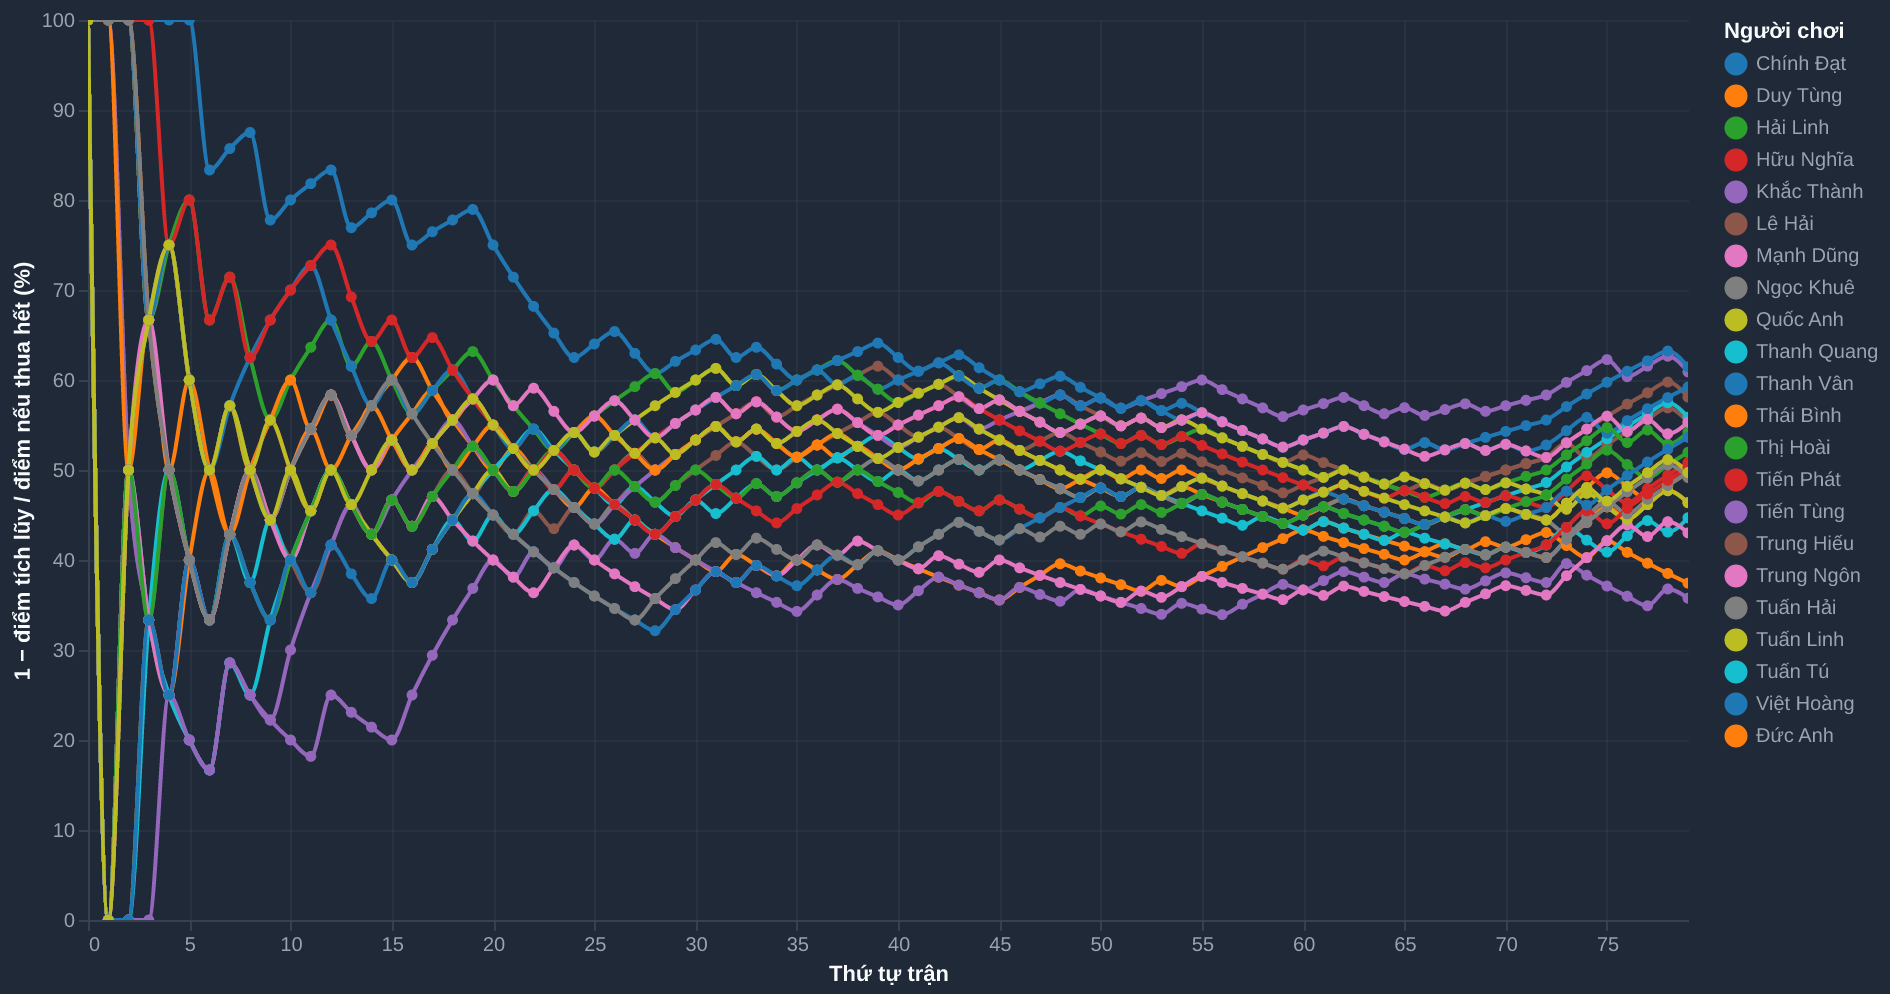
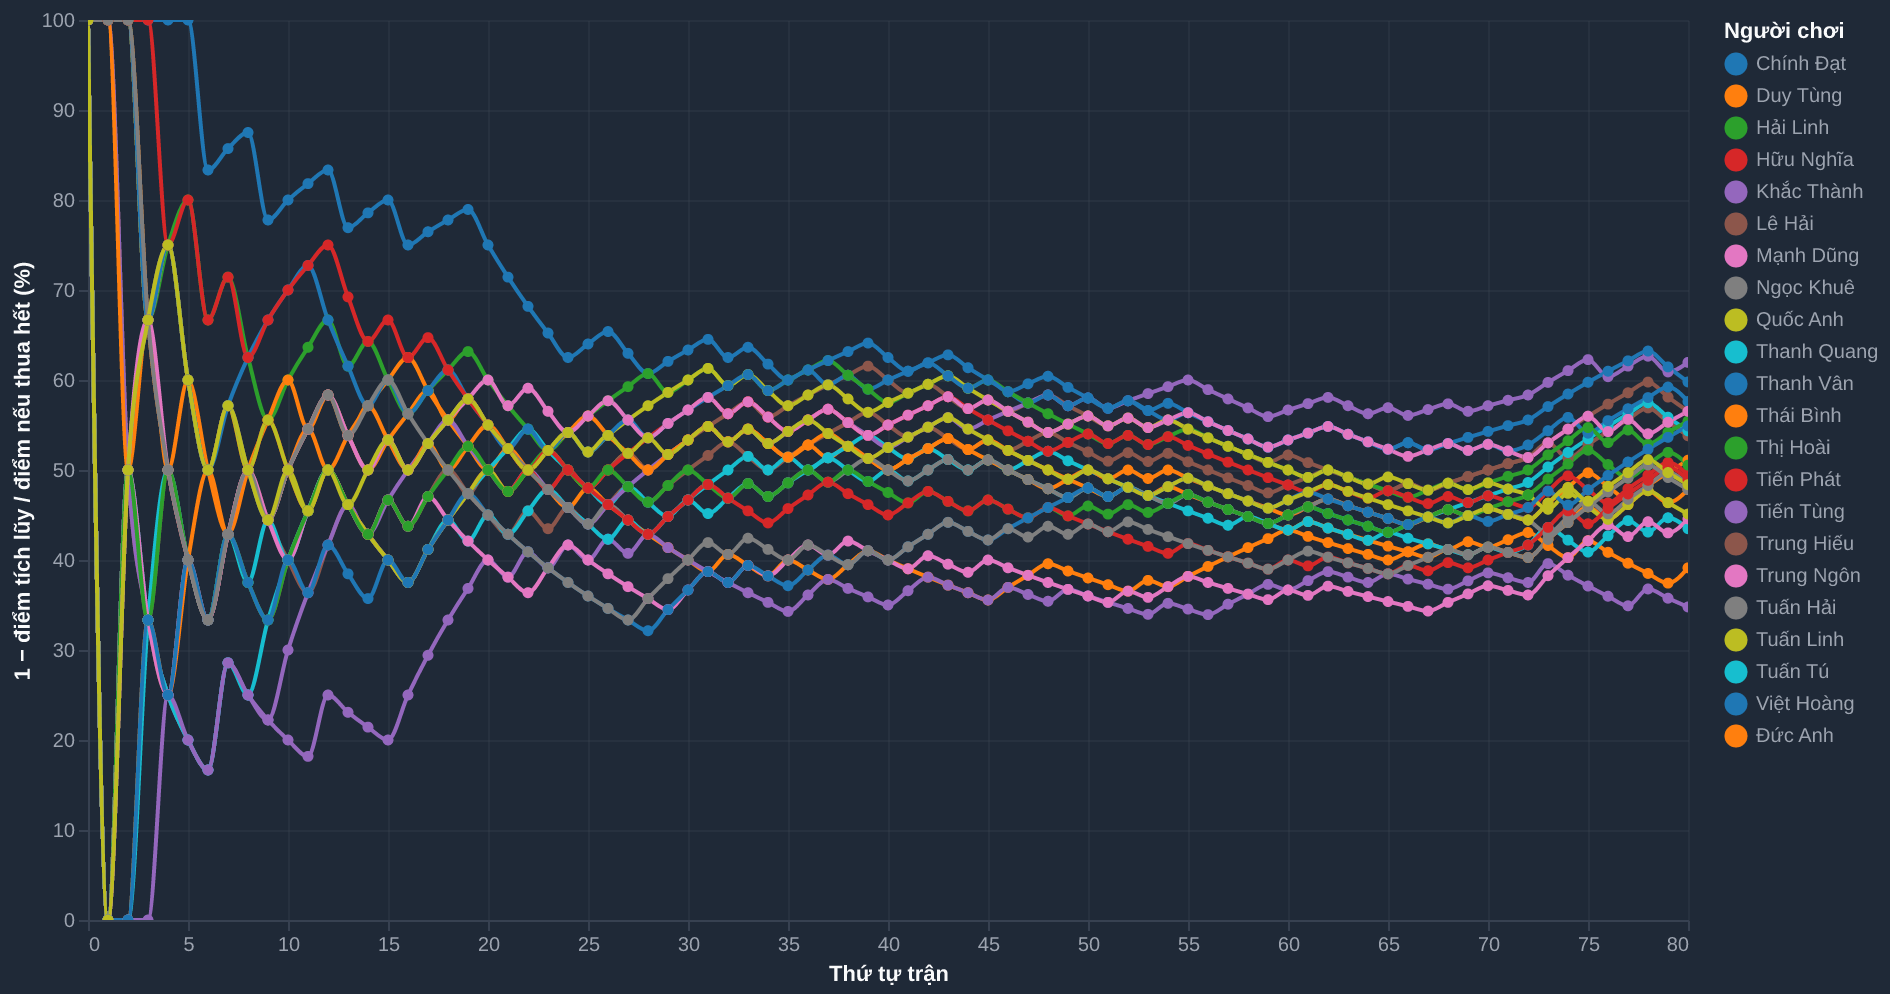
update data

diff --git a/index.html b/index.html
@@ -61,28 +61,28 @@
                 </tr>
               </thead>
               <tbody>
-              <tr><td class="streak-player" data-val="Tuấn Tú">Tuấn Tú</td><td class="streak-center" data-val="0"><span class="streak-dim">0</span></td><td class="streak-center streak-num" data-val="13">13</td><td class="streak-center" data-val="1"><span class="streak-badge streak-loss">1</span></td><td class="streak-center streak-num" data-val="6">6</td></tr>
-              <tr><td class="streak-player" data-val="Trung Hiếu">Trung Hiếu</td><td class="streak-center" data-val="0"><span class="streak-dim">0</span></td><td class="streak-center streak-num" data-val="11">11</td><td class="streak-center" data-val="1"><span class="streak-badge streak-loss">1</span></td><td class="streak-center streak-num" data-val="5">5</td></tr>
-              <tr><td class="streak-player" data-val="Việt Hoàng">Việt Hoàng</td><td class="streak-center" data-val="0"><span class="streak-dim">0</span></td><td class="streak-center streak-num" data-val="11">11</td><td class="streak-center" data-val="1"><span class="streak-badge streak-loss">1</span></td><td class="streak-center streak-num" data-val="5">5</td></tr>
-              <tr><td class="streak-player" data-val="Ngọc Khuê">Ngọc Khuê</td><td class="streak-center" data-val="0"><span class="streak-dim">0</span></td><td class="streak-center streak-num" data-val="6">6</td><td class="streak-center" data-val="1"><span class="streak-badge streak-loss">1</span></td><td class="streak-center streak-num" data-val="12">12</td></tr>
-              <tr><td class="streak-player" data-val="Tiến Phát">Tiến Phát</td><td class="streak-center" data-val="3"><span class="streak-badge streak-win">3</span></td><td class="streak-center streak-num" data-val="6">6</td><td class="streak-center" data-val="0"><span class="streak-dim">0</span></td><td class="streak-center streak-num" data-val="7">7</td></tr>
-              <tr><td class="streak-player" data-val="Tuấn Linh">Tuấn Linh</td><td class="streak-center" data-val="0"><span class="streak-dim">0</span></td><td class="streak-center streak-num" data-val="6">6</td><td class="streak-center" data-val="1"><span class="streak-badge streak-loss">1</span></td><td class="streak-center streak-num" data-val="7">7</td></tr>
-              <tr><td class="streak-player" data-val="Thái Bình">Thái Bình</td><td class="streak-center" data-val="0"><span class="streak-dim">0</span></td><td class="streak-center streak-num" data-val="6">6</td><td class="streak-center" data-val="4"><span class="streak-badge streak-loss">4</span></td><td class="streak-center streak-num" data-val="6">6</td></tr>
-              <tr><td class="streak-player" data-val="Thị Hoài">Thị Hoài</td><td class="streak-center" data-val="1"><span class="streak-badge streak-win">1</span></td><td class="streak-center streak-num" data-val="6">6</td><td class="streak-center" data-val="0"><span class="streak-dim">0</span></td><td class="streak-center streak-num" data-val="6">6</td></tr>
-              <tr><td class="streak-player" data-val="Lê Hải">Lê Hải</td><td class="streak-center" data-val="0"><span class="streak-dim">0</span></td><td class="streak-center streak-num" data-val="6">6</td><td class="streak-center" data-val="1"><span class="streak-badge streak-loss">1</span></td><td class="streak-center streak-num" data-val="5">5</td></tr>
-              <tr><td class="streak-player" data-val="Khắc Thành">Khắc Thành</td><td class="streak-center" data-val="0"><span class="streak-dim">0</span></td><td class="streak-center streak-num" data-val="6">6</td><td class="streak-center" data-val="1"><span class="streak-badge streak-loss">1</span></td><td class="streak-center streak-num" data-val="4">4</td></tr>
-              <tr><td class="streak-player" data-val="Hải Linh">Hải Linh</td><td class="streak-center" data-val="2"><span class="streak-badge streak-win">2</span></td><td class="streak-center streak-num" data-val="6">6</td><td class="streak-center" data-val="0"><span class="streak-dim">0</span></td><td class="streak-center streak-num" data-val="4">4</td></tr>
-              <tr><td class="streak-player" data-val="Chính Đạt">Chính Đạt</td><td class="streak-center" data-val="5"><span class="streak-badge streak-win">5</span></td><td class="streak-center streak-num" data-val="5">5</td><td class="streak-center" data-val="0"><span class="streak-dim">0</span></td><td class="streak-center streak-num" data-val="9">9</td></tr>
-              <tr><td class="streak-player" data-val="Tiến Tùng">Tiến Tùng</td><td class="streak-center" data-val="0"><span class="streak-dim">0</span></td><td class="streak-center streak-num" data-val="5">5</td><td class="streak-center" data-val="1"><span class="streak-badge streak-loss">1</span></td><td class="streak-center streak-num" data-val="7">7</td></tr>
-              <tr><td class="streak-player" data-val="Hữu Nghĩa">Hữu Nghĩa</td><td class="streak-center" data-val="4"><span class="streak-badge streak-win">4</span></td><td class="streak-center streak-num" data-val="5">5</td><td class="streak-center" data-val="0"><span class="streak-dim">0</span></td><td class="streak-center streak-num" data-val="6">6</td></tr>
-              <tr><td class="streak-player" data-val="Thanh Quang">Thanh Quang</td><td class="streak-center" data-val="1"><span class="streak-badge streak-win">1</span></td><td class="streak-center streak-num" data-val="5">5</td><td class="streak-center" data-val="0"><span class="streak-dim">0</span></td><td class="streak-center streak-num" data-val="5">5</td></tr>
-              <tr><td class="streak-player" data-val="Thanh Vân">Thanh Vân</td><td class="streak-center" data-val="4"><span class="streak-badge streak-win">4</span></td><td class="streak-center streak-num" data-val="5">5</td><td class="streak-center" data-val="0"><span class="streak-dim">0</span></td><td class="streak-center streak-num" data-val="5">5</td></tr>
-              <tr><td class="streak-player" data-val="Trung Ngôn">Trung Ngôn</td><td class="streak-center" data-val="0"><span class="streak-dim">0</span></td><td class="streak-center streak-num" data-val="4">4</td><td class="streak-center" data-val="1"><span class="streak-badge streak-loss">1</span></td><td class="streak-center streak-num" data-val="6">6</td></tr>
-              <tr><td class="streak-player" data-val="Quốc Anh">Quốc Anh</td><td class="streak-center" data-val="0"><span class="streak-dim">0</span></td><td class="streak-center streak-num" data-val="4">4</td><td class="streak-center" data-val="1"><span class="streak-badge streak-loss">1</span></td><td class="streak-center streak-num" data-val="6">6</td></tr>
-              <tr><td class="streak-player" data-val="Mạnh Dũng">Mạnh Dũng</td><td class="streak-center" data-val="1"><span class="streak-badge streak-win">1</span></td><td class="streak-center streak-num" data-val="4">4</td><td class="streak-center" data-val="0"><span class="streak-dim">0</span></td><td class="streak-center streak-num" data-val="4">4</td></tr>
-              <tr><td class="streak-player" data-val="Duy Tùng">Duy Tùng</td><td class="streak-center" data-val="0"><span class="streak-dim">0</span></td><td class="streak-center streak-num" data-val="3">3</td><td class="streak-center" data-val="1"><span class="streak-badge streak-loss">1</span></td><td class="streak-center streak-num" data-val="6">6</td></tr>
-              <tr><td class="streak-player" data-val="Đức Anh">Đức Anh</td><td class="streak-center" data-val="2"><span class="streak-badge streak-win">2</span></td><td class="streak-center streak-num" data-val="3">3</td><td class="streak-center" data-val="0"><span class="streak-dim">0</span></td><td class="streak-center streak-num" data-val="6">6</td></tr>
-              <tr><td class="streak-player" data-val="Tuấn Hải">Tuấn Hải</td><td class="streak-center" data-val="3"><span class="streak-badge streak-win">3</span></td><td class="streak-center streak-num" data-val="3">3</td><td class="streak-center" data-val="0"><span class="streak-dim">0</span></td><td class="streak-center streak-num" data-val="6">6</td></tr>
+              <tr><td class="streak-player" data-val="Tuấn Tú">Tuấn Tú</td><td class="streak-center" data-val="0"><span class="streak-dim">0</span></td><td class="streak-center streak-num" data-val="13">13</td><td class="streak-center" data-val="2"><span class="streak-badge streak-loss">2</span></td><td class="streak-center streak-num" data-val="6">6</td></tr>
+              <tr><td class="streak-player" data-val="Trung Hiếu">Trung Hiếu</td><td class="streak-center" data-val="0"><span class="streak-dim">0</span></td><td class="streak-center streak-num" data-val="11">11</td><td class="streak-center" data-val="2"><span class="streak-badge streak-loss">2</span></td><td class="streak-center streak-num" data-val="5">5</td></tr>
+              <tr><td class="streak-player" data-val="Việt Hoàng">Việt Hoàng</td><td class="streak-center" data-val="0"><span class="streak-dim">0</span></td><td class="streak-center streak-num" data-val="11">11</td><td class="streak-center" data-val="2"><span class="streak-badge streak-loss">2</span></td><td class="streak-center streak-num" data-val="5">5</td></tr>
+              <tr><td class="streak-player" data-val="Ngọc Khuê">Ngọc Khuê</td><td class="streak-center" data-val="0"><span class="streak-dim">0</span></td><td class="streak-center streak-num" data-val="6">6</td><td class="streak-center" data-val="2"><span class="streak-badge streak-loss">2</span></td><td class="streak-center streak-num" data-val="12">12</td></tr>
+              <tr><td class="streak-player" data-val="Chính Đạt">Chính Đạt</td><td class="streak-center" data-val="6"><span class="streak-badge streak-win">6</span></td><td class="streak-center streak-num" data-val="6">6</td><td class="streak-center" data-val="0"><span class="streak-dim">0</span></td><td class="streak-center streak-num" data-val="9">9</td></tr>
+              <tr><td class="streak-player" data-val="Tiến Phát">Tiến Phát</td><td class="streak-center" data-val="0"><span class="streak-dim">0</span></td><td class="streak-center streak-num" data-val="6">6</td><td class="streak-center" data-val="1"><span class="streak-badge streak-loss">1</span></td><td class="streak-center streak-num" data-val="7">7</td></tr>
+              <tr><td class="streak-player" data-val="Tuấn Linh">Tuấn Linh</td><td class="streak-center" data-val="0"><span class="streak-dim">0</span></td><td class="streak-center streak-num" data-val="6">6</td><td class="streak-center" data-val="2"><span class="streak-badge streak-loss">2</span></td><td class="streak-center streak-num" data-val="7">7</td></tr>
+              <tr><td class="streak-player" data-val="Thái Bình">Thái Bình</td><td class="streak-center" data-val="1"><span class="streak-badge streak-win">1</span></td><td class="streak-center streak-num" data-val="6">6</td><td class="streak-center" data-val="0"><span class="streak-dim">0</span></td><td class="streak-center streak-num" data-val="6">6</td></tr>
+              <tr><td class="streak-player" data-val="Thị Hoài">Thị Hoài</td><td class="streak-center" data-val="2"><span class="streak-badge streak-win">2</span></td><td class="streak-center streak-num" data-val="6">6</td><td class="streak-center" data-val="0"><span class="streak-dim">0</span></td><td class="streak-center streak-num" data-val="6">6</td></tr>
+              <tr><td class="streak-player" data-val="Lê Hải">Lê Hải</td><td class="streak-center" data-val="0"><span class="streak-dim">0</span></td><td class="streak-center streak-num" data-val="6">6</td><td class="streak-center" data-val="2"><span class="streak-badge streak-loss">2</span></td><td class="streak-center streak-num" data-val="5">5</td></tr>
+              <tr><td class="streak-player" data-val="Khắc Thành">Khắc Thành</td><td class="streak-center" data-val="1"><span class="streak-badge streak-win">1</span></td><td class="streak-center streak-num" data-val="6">6</td><td class="streak-center" data-val="0"><span class="streak-dim">0</span></td><td class="streak-center streak-num" data-val="4">4</td></tr>
+              <tr><td class="streak-player" data-val="Hải Linh">Hải Linh</td><td class="streak-center" data-val="0"><span class="streak-dim">0</span></td><td class="streak-center streak-num" data-val="6">6</td><td class="streak-center" data-val="1"><span class="streak-badge streak-loss">1</span></td><td class="streak-center streak-num" data-val="4">4</td></tr>
+              <tr><td class="streak-player" data-val="Tiến Tùng">Tiến Tùng</td><td class="streak-center" data-val="0"><span class="streak-dim">0</span></td><td class="streak-center streak-num" data-val="5">5</td><td class="streak-center" data-val="2"><span class="streak-badge streak-loss">2</span></td><td class="streak-center streak-num" data-val="7">7</td></tr>
+              <tr><td class="streak-player" data-val="Hữu Nghĩa">Hữu Nghĩa</td><td class="streak-center" data-val="0"><span class="streak-dim">0</span></td><td class="streak-center streak-num" data-val="5">5</td><td class="streak-center" data-val="1"><span class="streak-badge streak-loss">1</span></td><td class="streak-center streak-num" data-val="6">6</td></tr>
+              <tr><td class="streak-player" data-val="Thanh Quang">Thanh Quang</td><td class="streak-center" data-val="0"><span class="streak-dim">0</span></td><td class="streak-center streak-num" data-val="5">5</td><td class="streak-center" data-val="1"><span class="streak-badge streak-loss">1</span></td><td class="streak-center streak-num" data-val="5">5</td></tr>
+              <tr><td class="streak-player" data-val="Thanh Vân">Thanh Vân</td><td class="streak-center" data-val="0"><span class="streak-dim">0</span></td><td class="streak-center streak-num" data-val="5">5</td><td class="streak-center" data-val="1"><span class="streak-badge streak-loss">1</span></td><td class="streak-center streak-num" data-val="5">5</td></tr>
+              <tr><td class="streak-player" data-val="Trung Ngôn">Trung Ngôn</td><td class="streak-center" data-val="1"><span class="streak-badge streak-win">1</span></td><td class="streak-center streak-num" data-val="4">4</td><td class="streak-center" data-val="0"><span class="streak-dim">0</span></td><td class="streak-center streak-num" data-val="6">6</td></tr>
+              <tr><td class="streak-player" data-val="Quốc Anh">Quốc Anh</td><td class="streak-center" data-val="0"><span class="streak-dim">0</span></td><td class="streak-center streak-num" data-val="4">4</td><td class="streak-center" data-val="2"><span class="streak-badge streak-loss">2</span></td><td class="streak-center streak-num" data-val="6">6</td></tr>
+              <tr><td class="streak-player" data-val="Mạnh Dũng">Mạnh Dũng</td><td class="streak-center" data-val="2"><span class="streak-badge streak-win">2</span></td><td class="streak-center streak-num" data-val="4">4</td><td class="streak-center" data-val="0"><span class="streak-dim">0</span></td><td class="streak-center streak-num" data-val="4">4</td></tr>
+              <tr><td class="streak-player" data-val="Duy Tùng">Duy Tùng</td><td class="streak-center" data-val="1"><span class="streak-badge streak-win">1</span></td><td class="streak-center streak-num" data-val="3">3</td><td class="streak-center" data-val="0"><span class="streak-dim">0</span></td><td class="streak-center streak-num" data-val="6">6</td></tr>
+              <tr><td class="streak-player" data-val="Đức Anh">Đức Anh</td><td class="streak-center" data-val="3"><span class="streak-badge streak-win">3</span></td><td class="streak-center streak-num" data-val="3">3</td><td class="streak-center" data-val="0"><span class="streak-dim">0</span></td><td class="streak-center streak-num" data-val="6">6</td></tr>
+              <tr><td class="streak-player" data-val="Tuấn Hải">Tuấn Hải</td><td class="streak-center" data-val="0"><span class="streak-dim">0</span></td><td class="streak-center streak-num" data-val="3">3</td><td class="streak-center" data-val="1"><span class="streak-badge streak-loss">1</span></td><td class="streak-center streak-num" data-val="6">6</td></tr>
               </tbody>
             </table><!-- STREAK_TABLE_END -->
           </div>